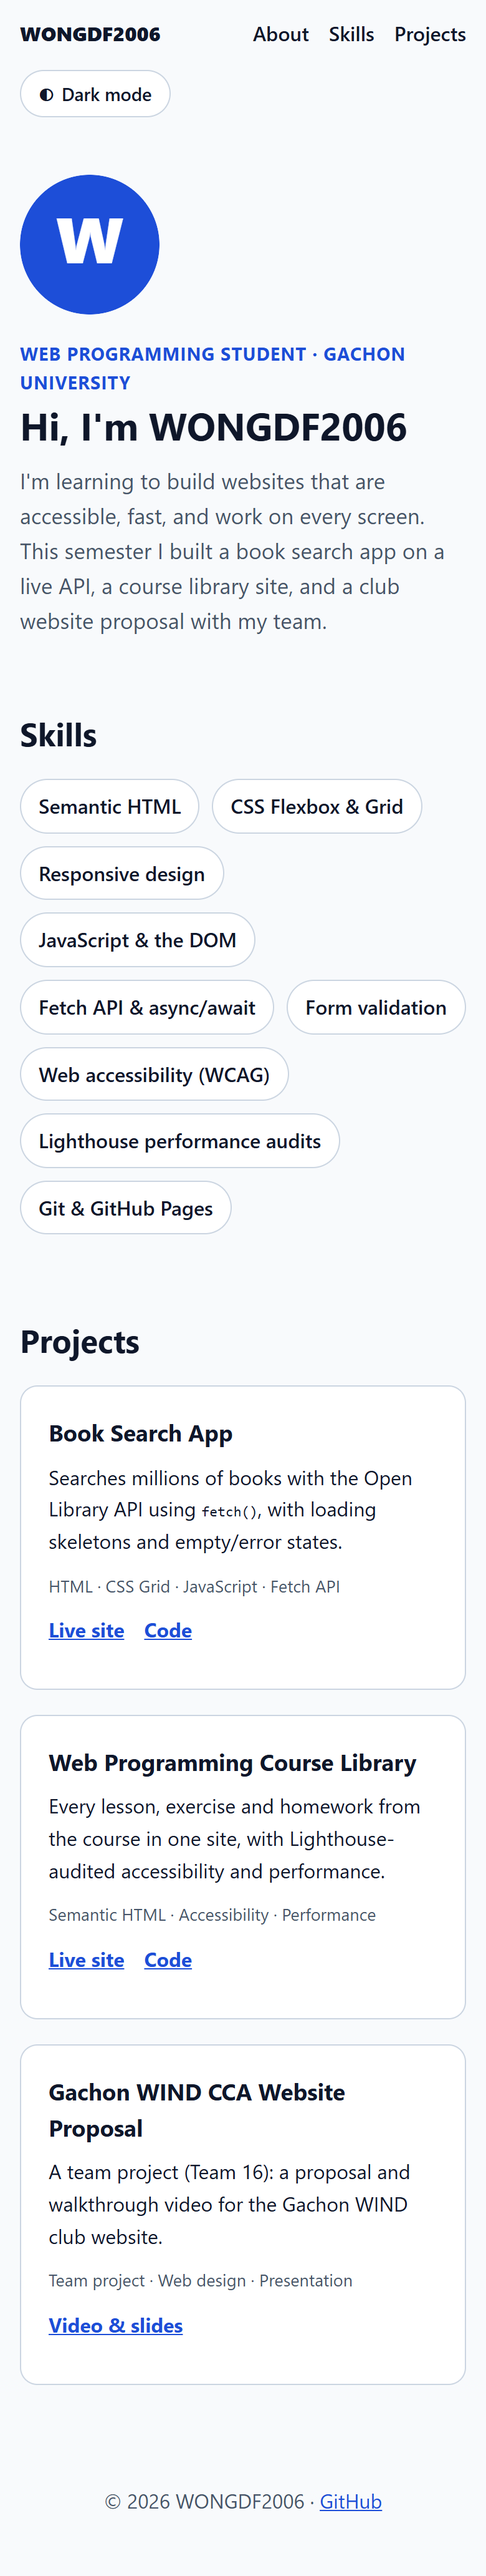
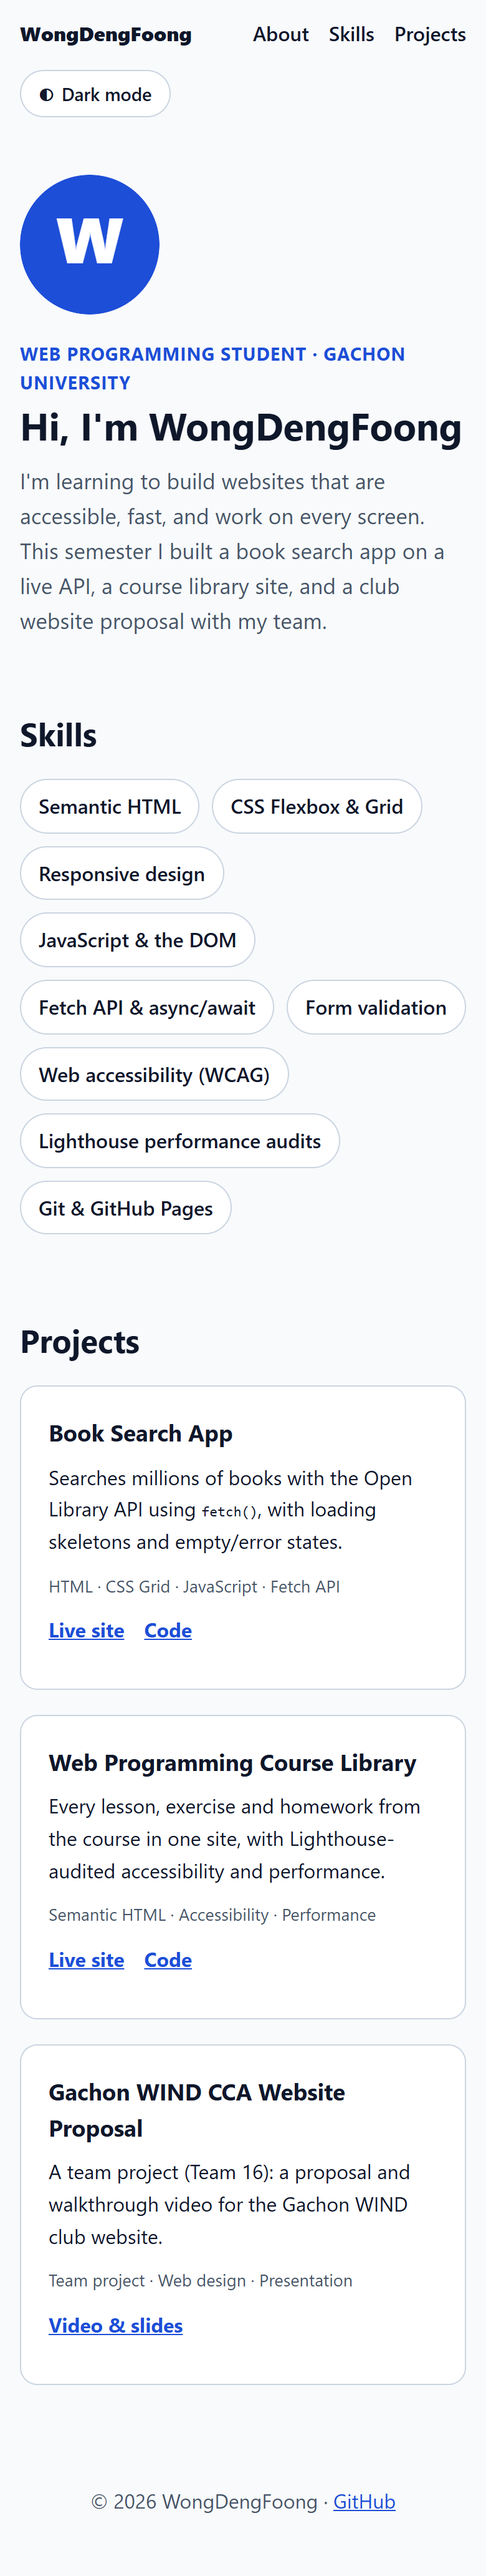
Use my name, WongDengFoong, in homework reports and screenshots

diff --git a/Week 11_1/homework_task_11a_submission.html b/Week 11_1/homework_task_11a_submission.html
@@ -56,7 +56,7 @@
     </table>
 
     <figure>
-      <img src="captures/task11-live.png" alt="The live Student Directory: three profile cards for WONGDF2006 (ID 202699475), Yongwee (ID 202699472) and Ryan (ID 202699476), the first lifted by the hover effect" width="1100" height="520" loading="lazy">
+      <img src="captures/task11-live.png" alt="The live Student Directory: three profile cards for WongDengFoong (ID 202699475), Yongwee (ID 202699472) and Ryan (ID 202699476), the first lifted by the hover effect" width="1100" height="520" loading="lazy">
       <figcaption>The live app at wongdf2006.github.io/task11/, with the hover effect on the first card</figcaption>
     </figure>
 
@@ -72,7 +72,7 @@ e30744f Add StudentProfileCard component with five props
       <tbody>
         <tr><td>The task page's own Self-Check, run on <code>App.jsx</code></td><td class="yes">7 / 7</td></tr>
         <tr><td>Live URL</td><td class="yes">HTTP 200</td></tr>
-        <tr><td>Rendered cards</td><td class="yes">3: WONGDF2006 202699475, Yongwee 202699472, Ryan 202699476</td></tr>
+        <tr><td>Rendered cards</td><td class="yes">3: WongDengFoong 202699475, Yongwee 202699472, Ryan 202699476</td></tr>
         <tr><td>Hover effect</td><td class="yes">Card lifts 4 px</td></tr>
         <tr><td>Console errors</td><td class="yes">None</td></tr>
       </tbody>

diff --git a/Week 10_1/homework_webpro_w9.html b/Week 10_1/homework_webpro_w9.html
@@ -58,7 +58,7 @@
     </table>
 
     <figure>
-      <img src="captures/webpro-w9-live.png" alt="The live webpro-w9 page: course name, WONGDF2006, 6 November 2026, and links to the source, the Book Search App, and the Course Library" width="1100" height="750" loading="lazy">
+      <img src="captures/webpro-w9-live.png" alt="The live webpro-w9 page: course name, WongDengFoong, 6 November 2026, and links to the source, the Book Search App, and the Course Library" width="1100" height="750" loading="lazy">
       <figcaption>The live page at wongdf2006.github.io/webpro-w9/, 6 Nov 2026</figcaption>
     </figure>
 

diff --git a/Week 10_1/homework_portfolio_repo.html b/Week 10_1/homework_portfolio_repo.html
@@ -73,7 +73,7 @@ bcd29c9 Add hero section with name, profile picture and short bio
     <h2>Contents</h2>
     <table>
       <tbody>
-        <tr><td>Name</td><td>WONGDF2006</td></tr>
+        <tr><td>Name</td><td>WongDengFoong</td></tr>
         <tr><td>Photo</td><td>A placeholder "W" picture (<code>images/avatar.svg</code>). Replace it with a real photo.</td></tr>
         <tr><td>Bio</td><td>A short bio about this semester's work</td></tr>
         <tr><td>Skills</td><td>Nine skills covered in the course</td></tr>
